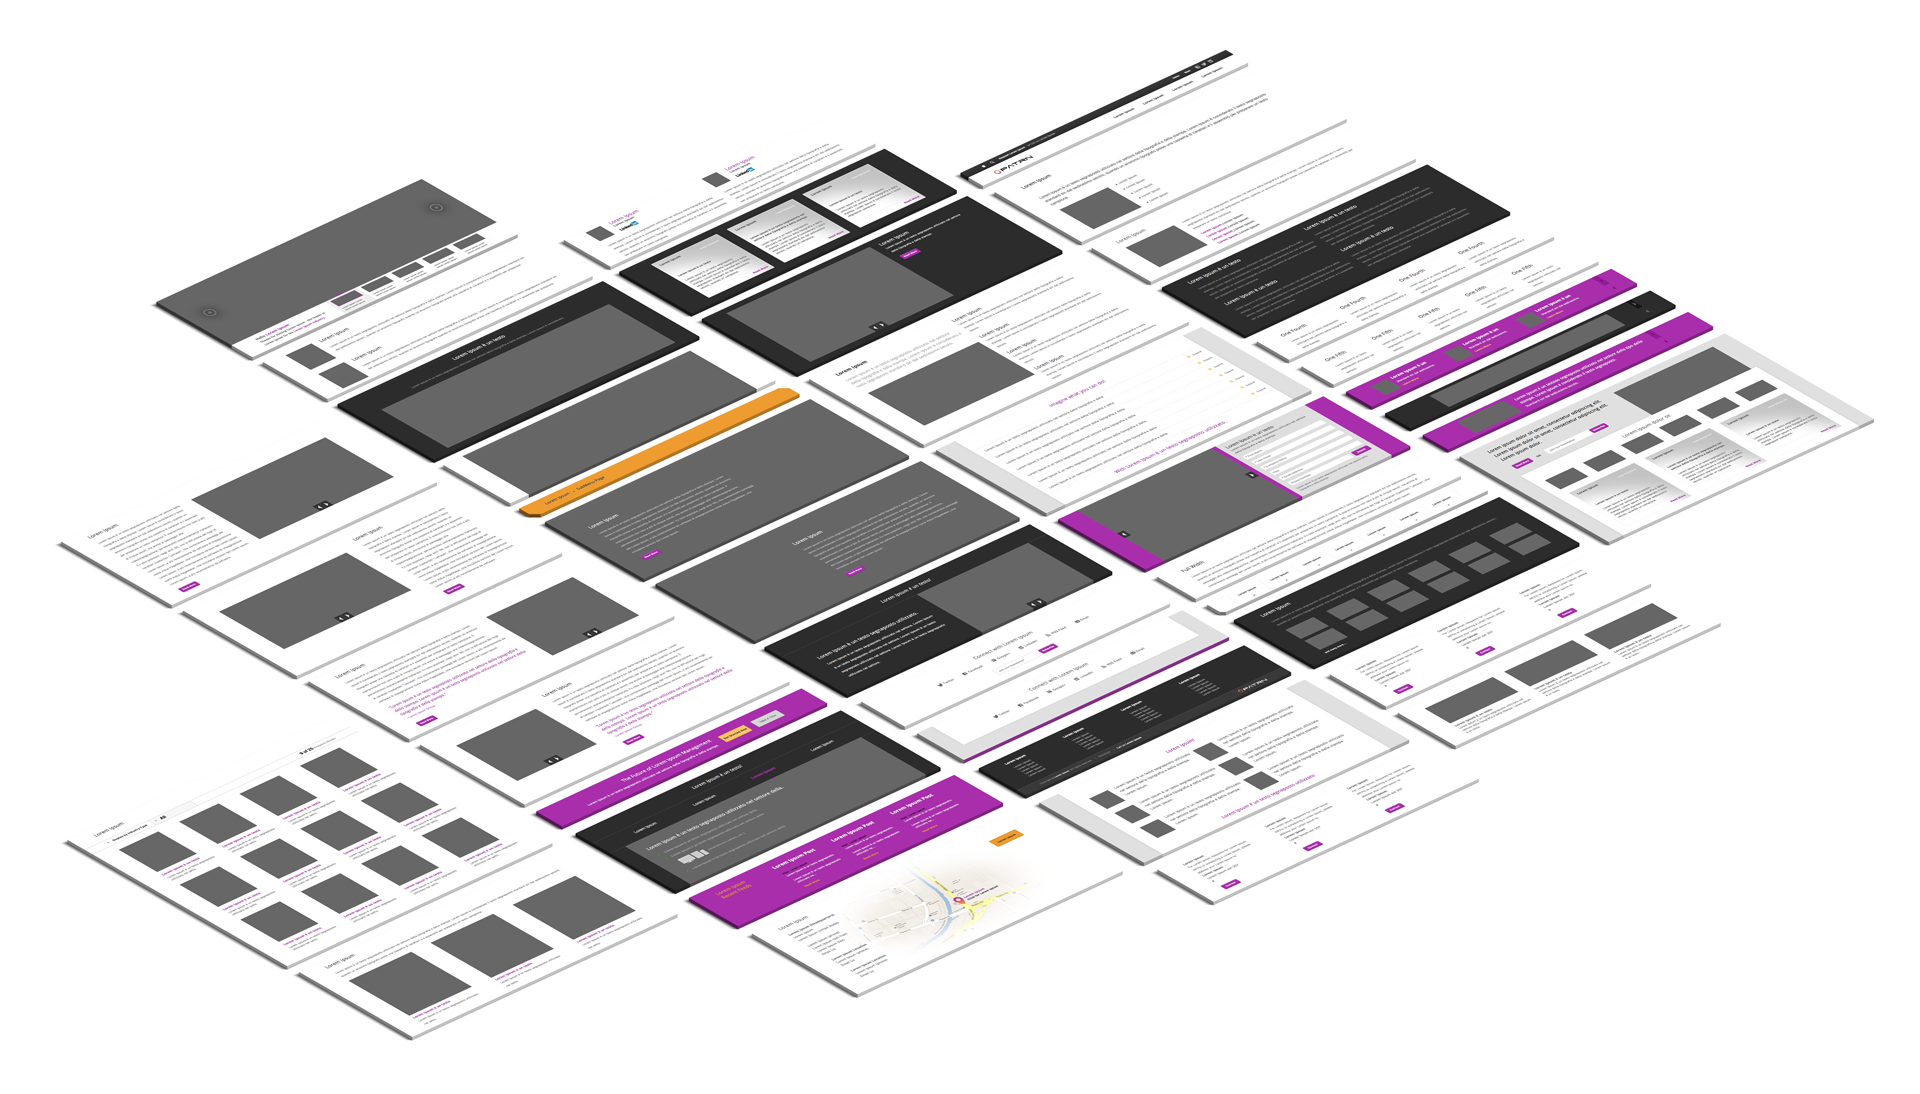
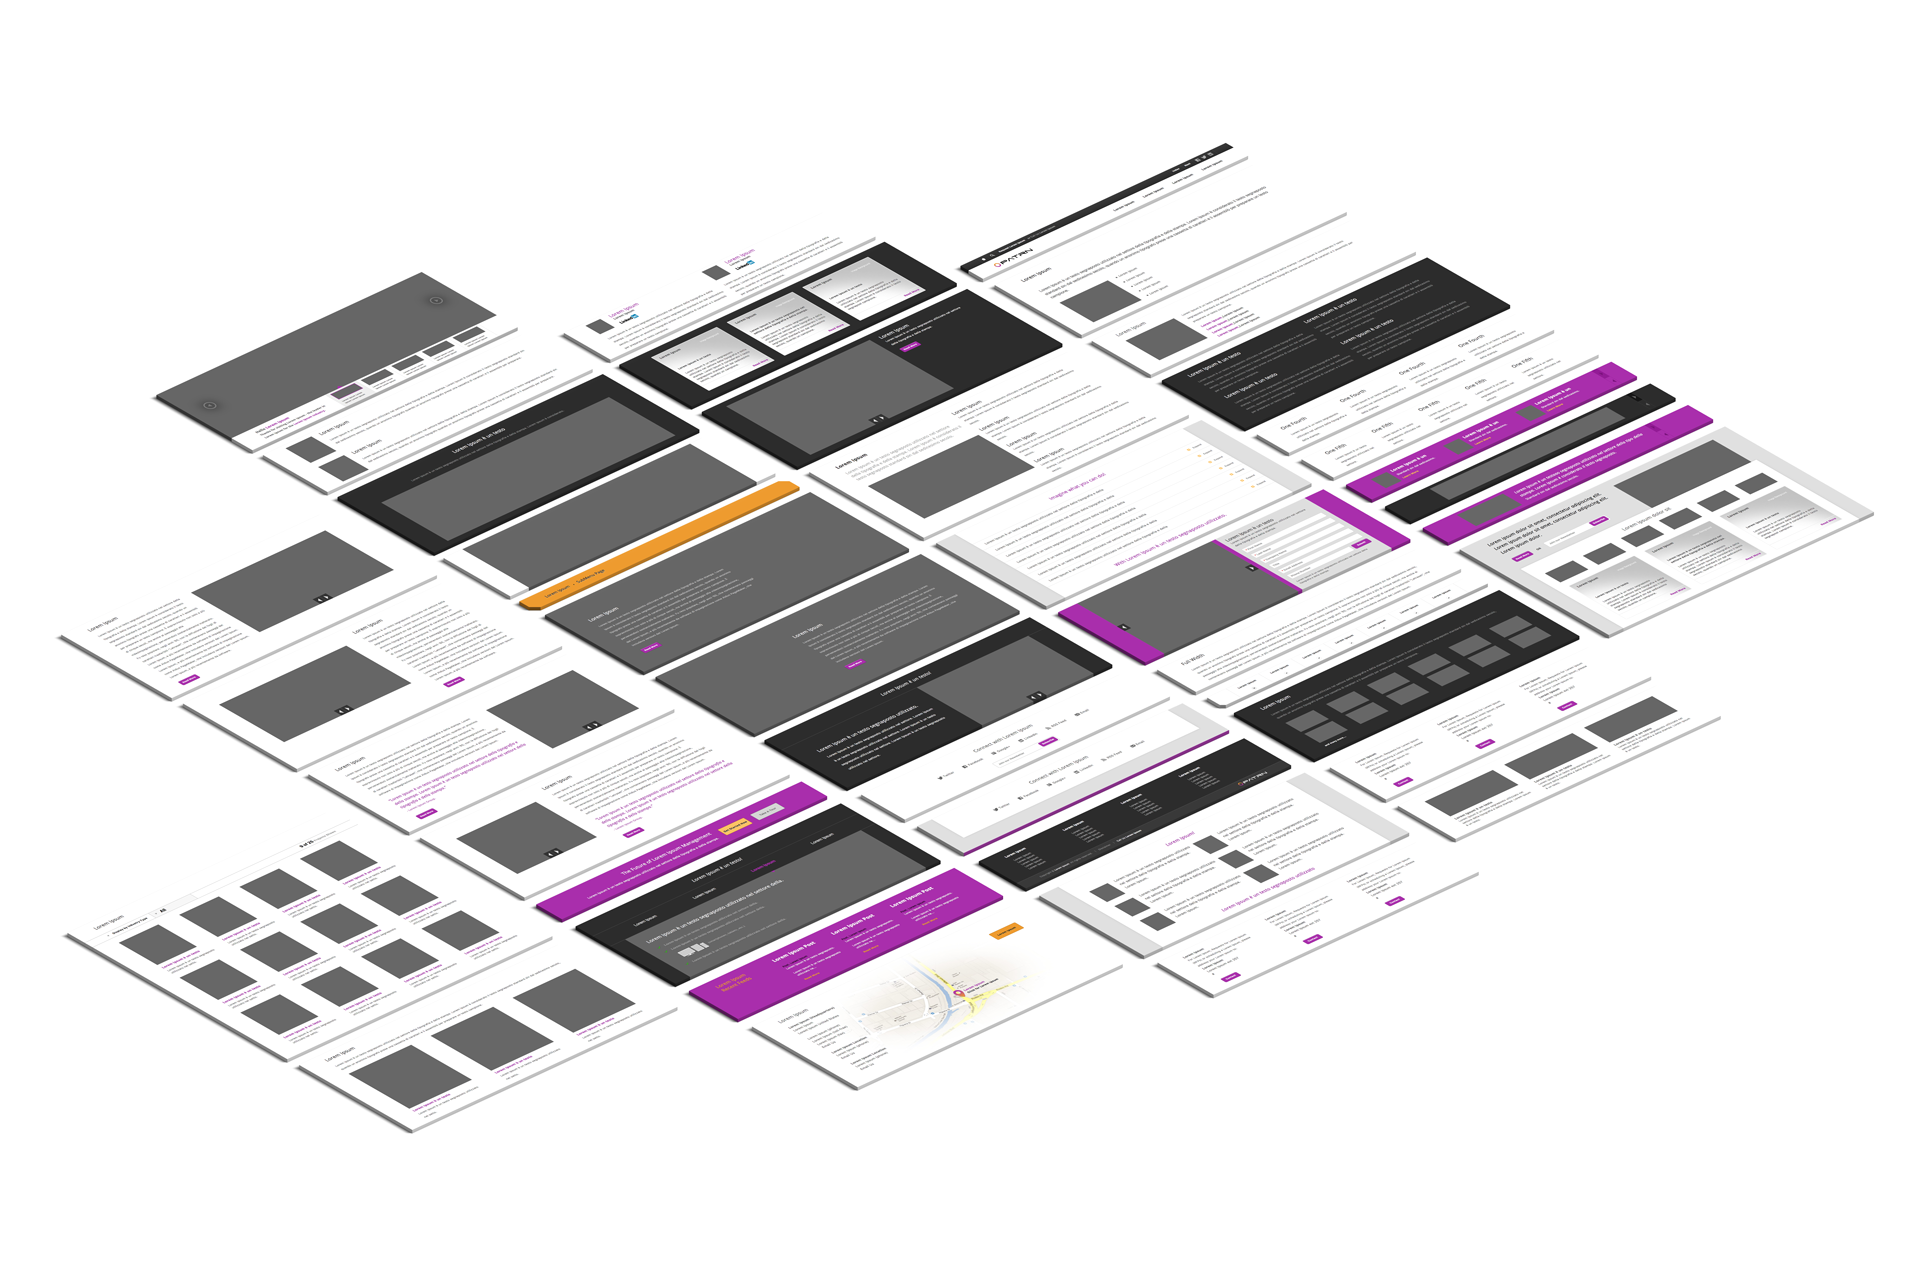
updates

Changed region(s): [[0.0312, 0.0311, 1.0, 0.9634]]

diff --git a/index.html b/index.html
@@ -85,13 +85,15 @@
         <!--col-12-->
         <div class="col-6">
           <h5 class="purple">Version 2.0 - Patrn Ocean (CSS)</h5>
-          <!-- Place this tag where you want the button to render. -->
-          <a class="github-button" href="https://github.com/davidbanthony/PATRN-ocean/archive/master.zip"
-            data-size="large" aria-label="Download davidbanthony/PATRN-ocean on GitHub">Download</a>
           <p>
             This repo contains a css framework that has been built with a component methodology enabling rapid layout
             abilities. Included is a style guide template page that outlines each component and how the blocks can be
-            used to build out any style of layout. <a href="https://github.com/davidbanthony/PATRN-ocean" target="_blank">View Repo</a>
+            used to build out any style of layout. <a href="https://github.com/davidbanthony/PATRN-ocean"
+              target="_blank">View Repo</a>
+          </p>
+          <p>
+            <a class="github-button" href="https://github.com/davidbanthony/PATRN-ocean/archive/master.zip"
+              data-size="large" aria-label="Download davidbanthony/PATRN-ocean on GitHub">Download</a>
           </p>
         </div>
       </div>
@@ -113,13 +115,16 @@
         <!--col-12-->
         <div class="col-6">
           <h5 class="purple">Version 1.0 - Patrn Sunset (CSS)</h5>
-          <!-- Place this tag where you want the button to render. -->
-          <a class="github-button" href="https://github.com/davidbanthony/PATRN-sunset/archive/master.zip"
-            data-size="large" aria-label="Download davidbanthony/PATRN-sunset on GitHub">Download</a>
+
           <p>
             This repo contains a css framework that has been built with a component methodology enabling rapid layout
             abilities. Included is are thirteen template pages that outlines each component and how the blocks can be
-            used to build out any style of layout. <a href="https://github.com/davidbanthony/PATRN-sunset" target="_blank">View Repo</a>
+            used to build out any style of layout. <a href="https://github.com/davidbanthony/PATRN-sunset"
+              target="_blank">View Repo</a>
+          </p>
+          <p>
+            <a class="github-button" href="https://github.com/davidbanthony/PATRN-sunset/archive/master.zip"
+              data-size="large" aria-label="Download davidbanthony/PATRN-sunset on GitHub">Download</a>
           </p>
         </div>
       </div>